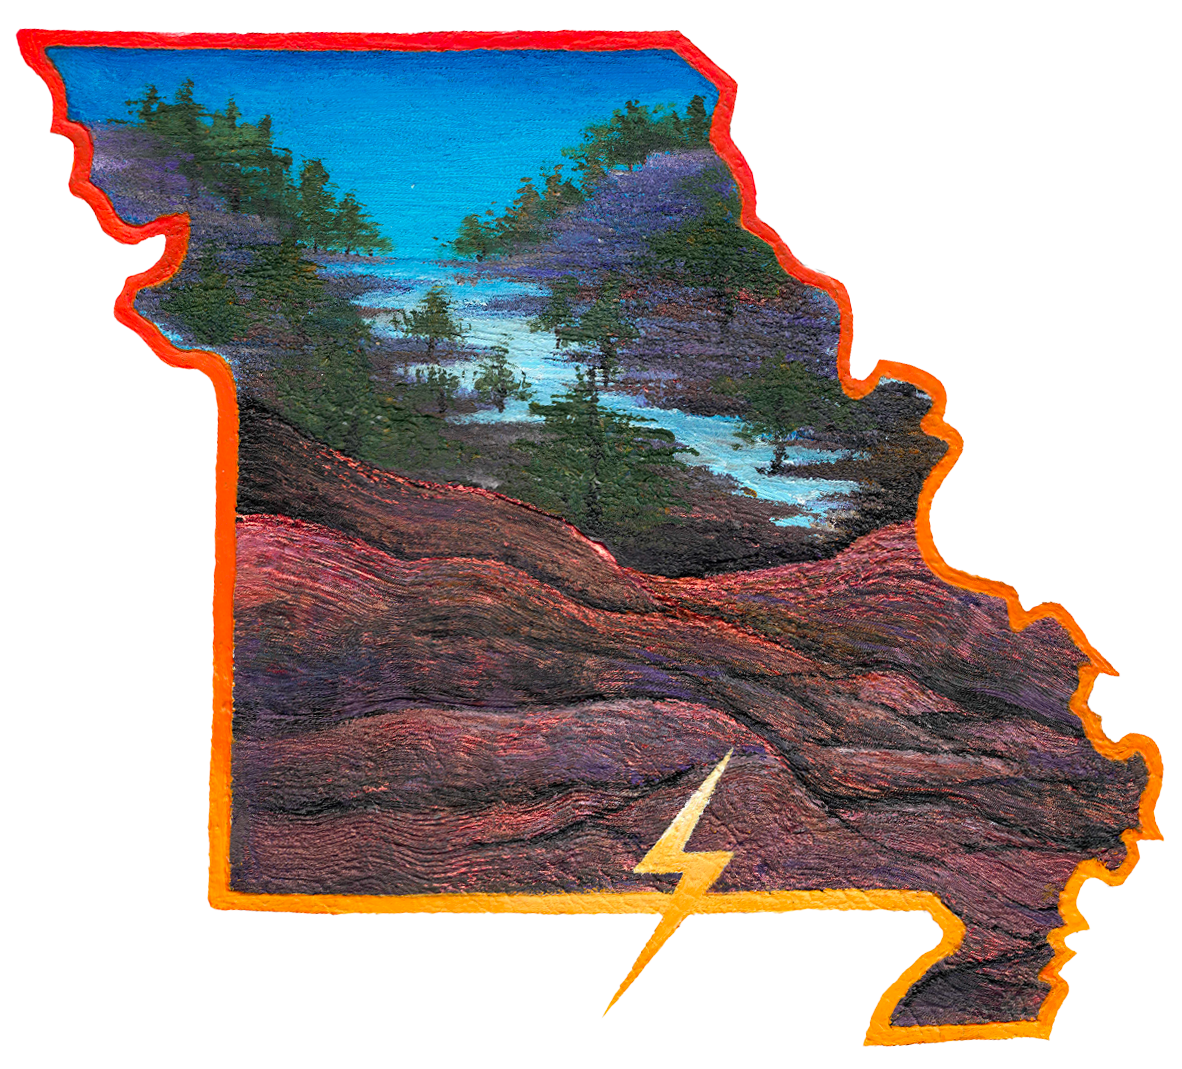
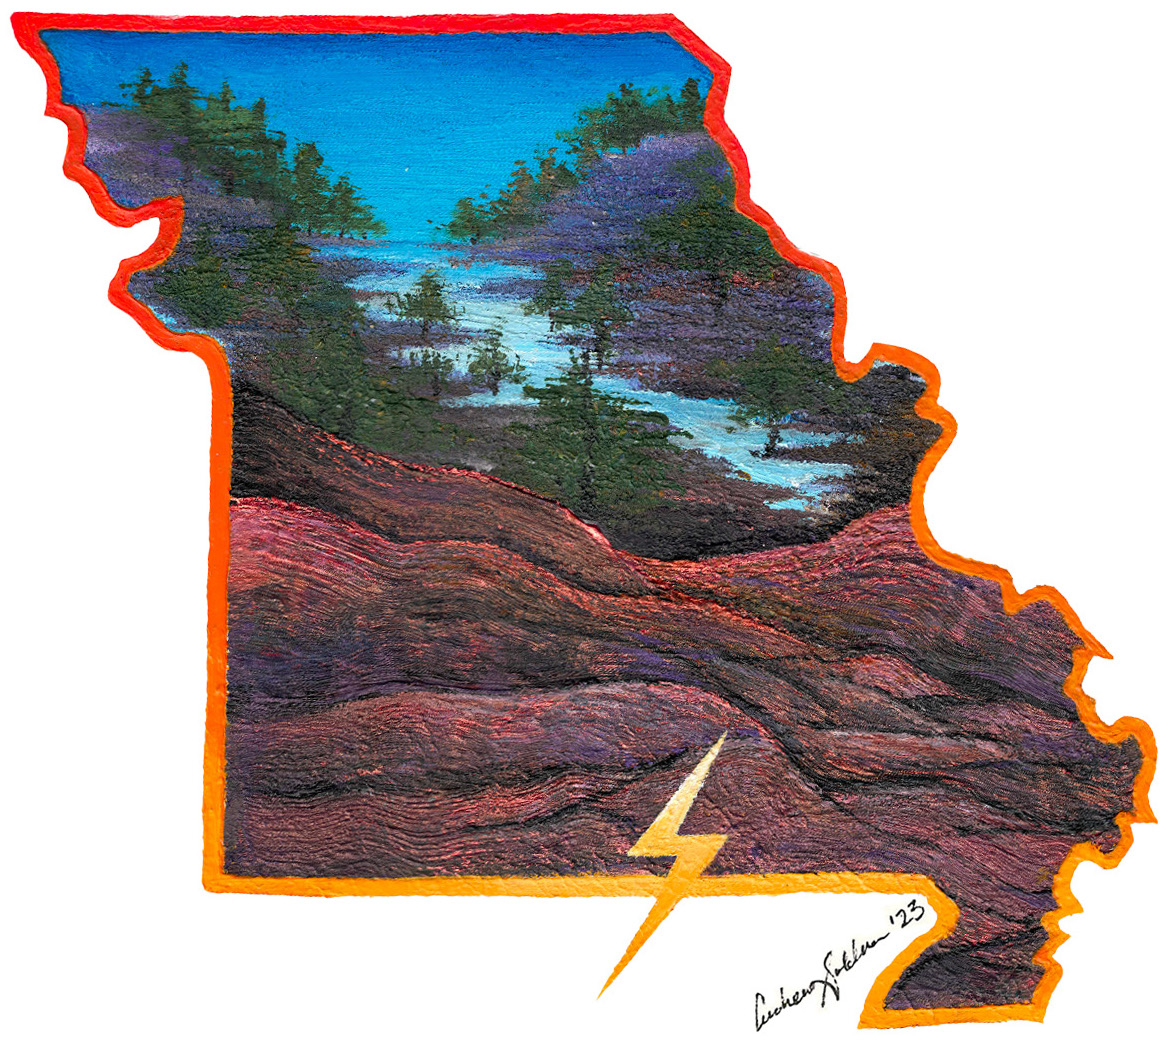
new art

diff --git a/client/src/data/images.ts b/client/src/data/images.ts
@@ -10,10 +10,17 @@ export const images = [
   },
   {
     src: require("../images/missouri.jpeg"),
-    width: 1182,
-    height: 1069,
+    width: 1171,
+    height: 1041,
     medium: Medium.ACRYLIC_PAINT,
     keywords: ["missouri", "rock", "mountain", "tree", "river", "sky"],
+  },
+  {
+    src: require("../images/splatterbrain.jpeg"),
+    width: 1652,
+    height: 2082,
+    medium: Medium.WATER_COLOR,
+    keywords: ["brain", "splatter", "rainbow"],
   },
   {
     src: require("../images/moonmars.jpeg"),